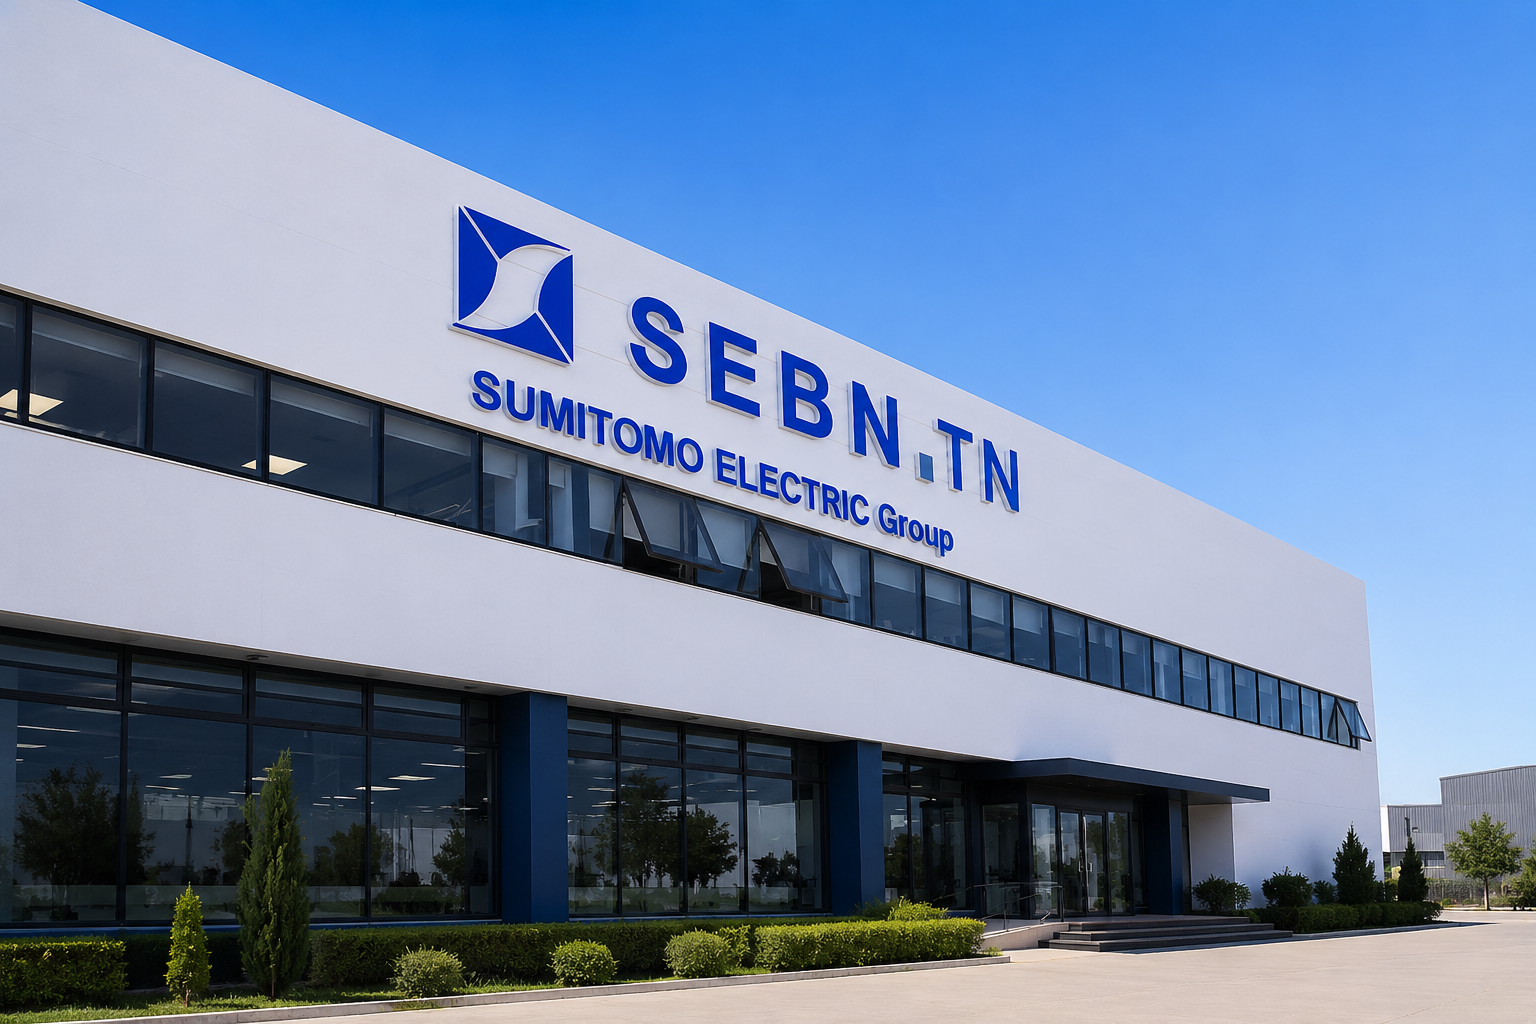
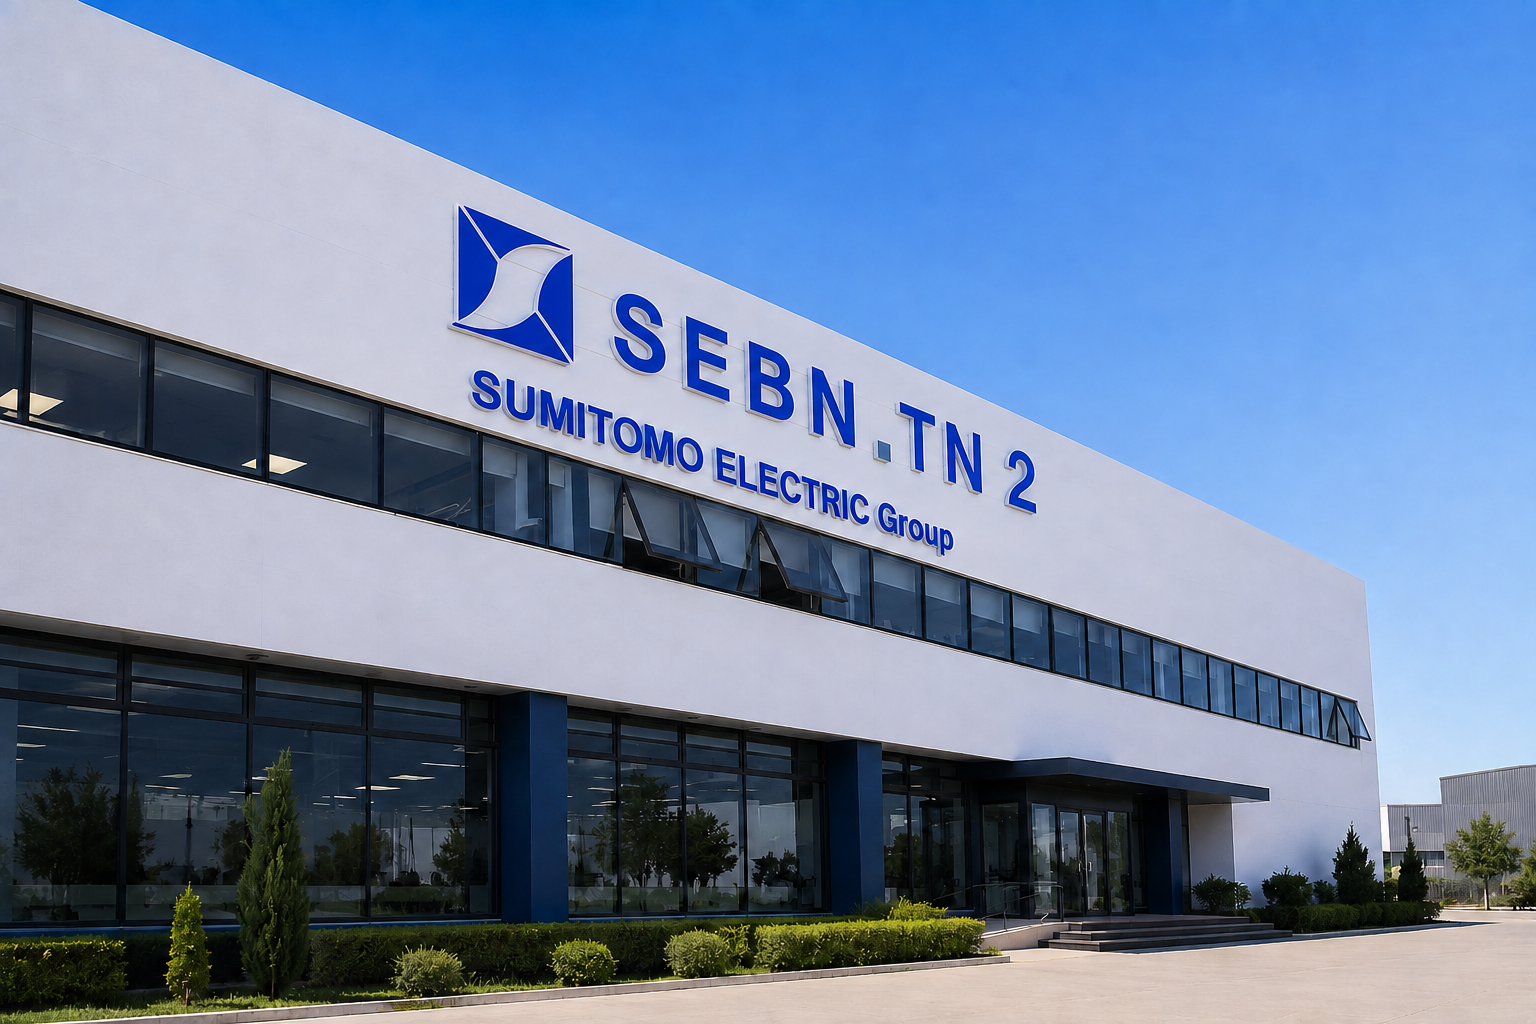
feat: complete MVP platform functionality

diff --git a/frontend/src/app/features/processes/components/workspace-optimization/workspace-optimization.html b/frontend/src/app/features/processes/components/workspace-optimization/workspace-optimization.html
@@ -458,6 +458,7 @@
         </div>
       } @else if (kind === 'risk') {
         <form [formGroup]="riskForm" (submit)="$event.preventDefault(); requestSave()" novalidate>
+          <div class="workspace-dialog__body">
           <fieldset [disabled]="isSaving()">
             <div class="opt-form-grid">
               <div class="field opt-form-grid__full">
@@ -554,6 +555,7 @@
               </div>
             </div>
           </fieldset>
+          </div>
           <div class="processes-actions processes-actions--form">
             <button type="submit" class="btn btn--primary" [disabled]="isSaving()">Create</button>
             <button type="button" class="btn btn--ghost" [disabled]="isSaving()" (click)="requestCloseEditor()">
@@ -563,6 +565,7 @@
         </form>
       } @else if (kind === 'optimization') {
         <form [formGroup]="optimizationForm" (submit)="$event.preventDefault(); requestSave()" novalidate>
+          <div class="workspace-dialog__body">
           <fieldset [disabled]="isSaving()">
             <div class="opt-form-grid">
               <div class="field">
@@ -629,6 +632,7 @@
               </div>
             </div>
           </fieldset>
+          </div>
           <div class="processes-actions processes-actions--form">
             <button type="submit" class="btn btn--primary" [disabled]="isSaving()">
               {{ editorMode() === 'edit' ? 'Save Changes' : 'Create' }}
@@ -640,6 +644,7 @@
         </form>
       } @else {
         <form [formGroup]="actionForm" (submit)="$event.preventDefault(); requestSave()" novalidate>
+          <div class="workspace-dialog__body">
           <fieldset [disabled]="isSaving()">
             <div class="opt-form-grid">
               <div class="field">
@@ -703,6 +708,7 @@
               </div>
             </div>
           </fieldset>
+          </div>
           <div class="processes-actions processes-actions--form">
             <button type="submit" class="btn btn--primary" [disabled]="isSaving()">
               {{ editorMode() === 'edit' ? 'Save Changes' : 'Create' }}

diff --git a/frontend/src/app/features/processes/components/workspace-failure-analysis/workspace-failure-analysis.html b/frontend/src/app/features/processes/components/workspace-failure-analysis/workspace-failure-analysis.html
@@ -299,6 +299,7 @@
         </div>
       } @else if (kind === 'mode') {
         <form [formGroup]="modeForm" (submit)="$event.preventDefault(); requestSave()" novalidate>
+          <div class="workspace-dialog__body">
           <fieldset [disabled]="isSaving()">
             <div class="field">
               <label for="failureModeDescription">
@@ -324,6 +325,7 @@
               }
             </div>
           </fieldset>
+          </div>
           <div class="processes-actions processes-actions--form">
             <button type="submit" class="btn btn--primary" [disabled]="isSaving()">
               {{ editorMode() === 'edit' ? 'Save Changes' : 'Create' }}
@@ -335,6 +337,7 @@
         </form>
       } @else if (kind === 'effect') {
         <form [formGroup]="effectForm" (submit)="$event.preventDefault(); requestSave()" novalidate>
+          <div class="workspace-dialog__body">
           <fieldset [disabled]="isSaving()">
             <div class="field">
               <label for="effectOurPlant">Our Plant</label>
@@ -378,6 +381,7 @@
               }
             </div>
           </fieldset>
+          </div>
           <div class="processes-actions processes-actions--form">
             <button type="submit" class="btn btn--primary" [disabled]="isSaving()">
               {{ editorMode() === 'edit' ? 'Save Changes' : 'Create' }}
@@ -389,6 +393,7 @@
         </form>
       } @else {
         <form [formGroup]="causeForm" (submit)="$event.preventDefault(); requestSave()" novalidate>
+          <div class="workspace-dialog__body">
           <fieldset [disabled]="isSaving()">
             <div class="field">
               <label for="failureCauseDescription">
@@ -407,6 +412,7 @@
               }
             </div>
           </fieldset>
+          </div>
           <div class="processes-actions processes-actions--form">
             <button type="submit" class="btn btn--primary" [disabled]="isSaving()">
               {{ editorMode() === 'edit' ? 'Save Changes' : 'Create' }}

diff --git a/frontend/src/app/features/processes/styles/workspace-ui.scss b/frontend/src/app/features/processes/styles/workspace-ui.scss
@@ -170,14 +170,24 @@ $ws-ease: 180ms ease-out;
   display: grid;
   place-items: center;
   padding: 1.25rem;
-  background: rgba(20, 12, 48, 0.42);
+  overflow: auto;
+  overscroll-behavior: contain;
+  box-sizing: border-box;
+  background: rgb(247 246 251 / 0.28);
   animation: workspace-overlay-enter 180ms ease-out both;
 }
 
 @mixin dialog-panel {
+  display: flex;
+  flex-direction: column;
+  box-sizing: border-box;
   width: min(100%, 38rem);
+  max-width: 100%;
   max-height: calc(100vh - 2.5rem);
-  overflow: auto;
+  max-height: calc(100dvh - 2.5rem);
+  min-width: 0;
+  min-height: 0;
+  overflow: hidden;
   padding: 1.4rem 1.4rem 1.25rem;
   background: #fff;
   border-top: 4px solid $ws-accent;
@@ -191,16 +201,57 @@ $ws-ease: 180ms ease-out;
   }
 
   h2 {
+    flex-shrink: 0;
     color: $ws-ink;
     font-size: 1.15rem;
     font-weight: 700;
   }
 
   > p {
+    flex-shrink: 0;
     margin-top: 0.4rem;
     margin-bottom: 1.1rem;
     color: $ws-muted;
     font-size: 0.9rem;
+  }
+
+  > .processes-alert {
+    flex-shrink: 0;
+  }
+
+  > form,
+  > dl,
+  > .opt-view {
+    display: flex;
+    flex-direction: column;
+    flex: 1 1 auto;
+    min-width: 0;
+    min-height: 0;
+  }
+
+  > form {
+    overflow: hidden;
+  }
+
+  > form > .workspace-dialog__body,
+  > dl,
+  > .opt-view {
+    flex: 1 1 auto;
+    min-width: 0;
+    min-height: 0;
+    overflow-x: hidden;
+    overflow-y: auto;
+    overscroll-behavior: contain;
+  }
+
+  > form > fieldset {
+    min-width: 0;
+  }
+
+  > form > .processes-actions,
+  > .processes-actions {
+    flex-shrink: 0;
+    background: #fff;
   }
 }
 
@@ -314,12 +365,10 @@ $ws-ease: 180ms ease-out;
 @keyframes workspace-enter {
   from {
     opacity: 0;
-    transform: translateY(6px);
   }
 
   to {
     opacity: 1;
-    transform: translateY(0);
   }
 }
 

diff --git a/frontend/src/app/features/processes/components/workspace-risk-analysis/workspace-risk-analysis.html b/frontend/src/app/features/processes/components/workspace-risk-analysis/workspace-risk-analysis.html
@@ -291,6 +291,7 @@
         </div>
       } @else {
         <form [formGroup]="riskForm" (submit)="$event.preventDefault(); requestSave()" novalidate>
+          <div class="workspace-dialog__body">
           <fieldset [disabled]="isSaving()">
             <section class="risk-form-section">
               <h3>Prevention</h3>
@@ -401,6 +402,7 @@
               </div>
             </section>
           </fieldset>
+          </div>
 
           <div class="processes-actions processes-actions--form">
             <button type="submit" class="btn btn--primary" [disabled]="isSaving()">

diff --git a/frontend/src/app/features/processes/components/workspace-functions/workspace-functions.html b/frontend/src/app/features/processes/components/workspace-functions/workspace-functions.html
@@ -234,6 +234,7 @@
         </div>
       } @else {
         <form [formGroup]="editorForm" (submit)="$event.preventDefault(); requestSave()" novalidate>
+          <div class="workspace-dialog__body">
           <fieldset [disabled]="isSaving()">
             <div class="functions-form-grid">
               <div class="field">
@@ -315,6 +316,7 @@
               }
             </div>
           </fieldset>
+          </div>
 
           <div class="processes-actions processes-actions--form">
             <button type="submit" class="btn btn--primary" [disabled]="isSaving()">

diff --git a/frontend/src/app/features/processes/pages/process-workspace/process-workspace.html b/frontend/src/app/features/processes/pages/process-workspace/process-workspace.html
@@ -335,6 +335,7 @@
       }
 
       <form [formGroup]="stepForm" (submit)="$event.preventDefault(); requestSaveStep()" novalidate>
+        <div class="workspace-dialog__body">
         <fieldset [disabled]="isSaving() || mode === 'view'">
           <div class="workspace-dialog__grid">
             <div class="field">
@@ -396,6 +397,7 @@
             }
           </div>
         </fieldset>
+        </div>
 
         <div class="processes-actions processes-actions--form">
           @if (mode !== 'view') {

diff --git a/frontend/src/app/features/processes/components/workspace-structure/workspace-structure.html b/frontend/src/app/features/processes/components/workspace-structure/workspace-structure.html
@@ -192,6 +192,7 @@
       }
 
       <form [formGroup]="editorForm" (submit)="$event.preventDefault(); requestSave()" novalidate>
+        <div class="workspace-dialog__body">
         <fieldset [disabled]="isSaving() || mode === 'view'">
           <div class="structure-form-grid">
             <div class="field">
@@ -253,6 +254,7 @@
             }
           </div>
         </fieldset>
+        </div>
 
         <div class="processes-actions processes-actions--form">
           @if (mode !== 'view') {

diff --git a/frontend/src/index.html b/frontend/src/index.html
@@ -2,7 +2,7 @@
 <html lang="fr">
 <head>
   <meta charset="utf-8">
-  <title>SEBN TN – P-FMEA Platform</title>
+  <title>SEBN TN 2 – P-FMEA Platform</title>
   <base href="/">
   <meta name="viewport" content="width=device-width, initial-scale=1">
   <link rel="preconnect" href="https://fonts.googleapis.com">
